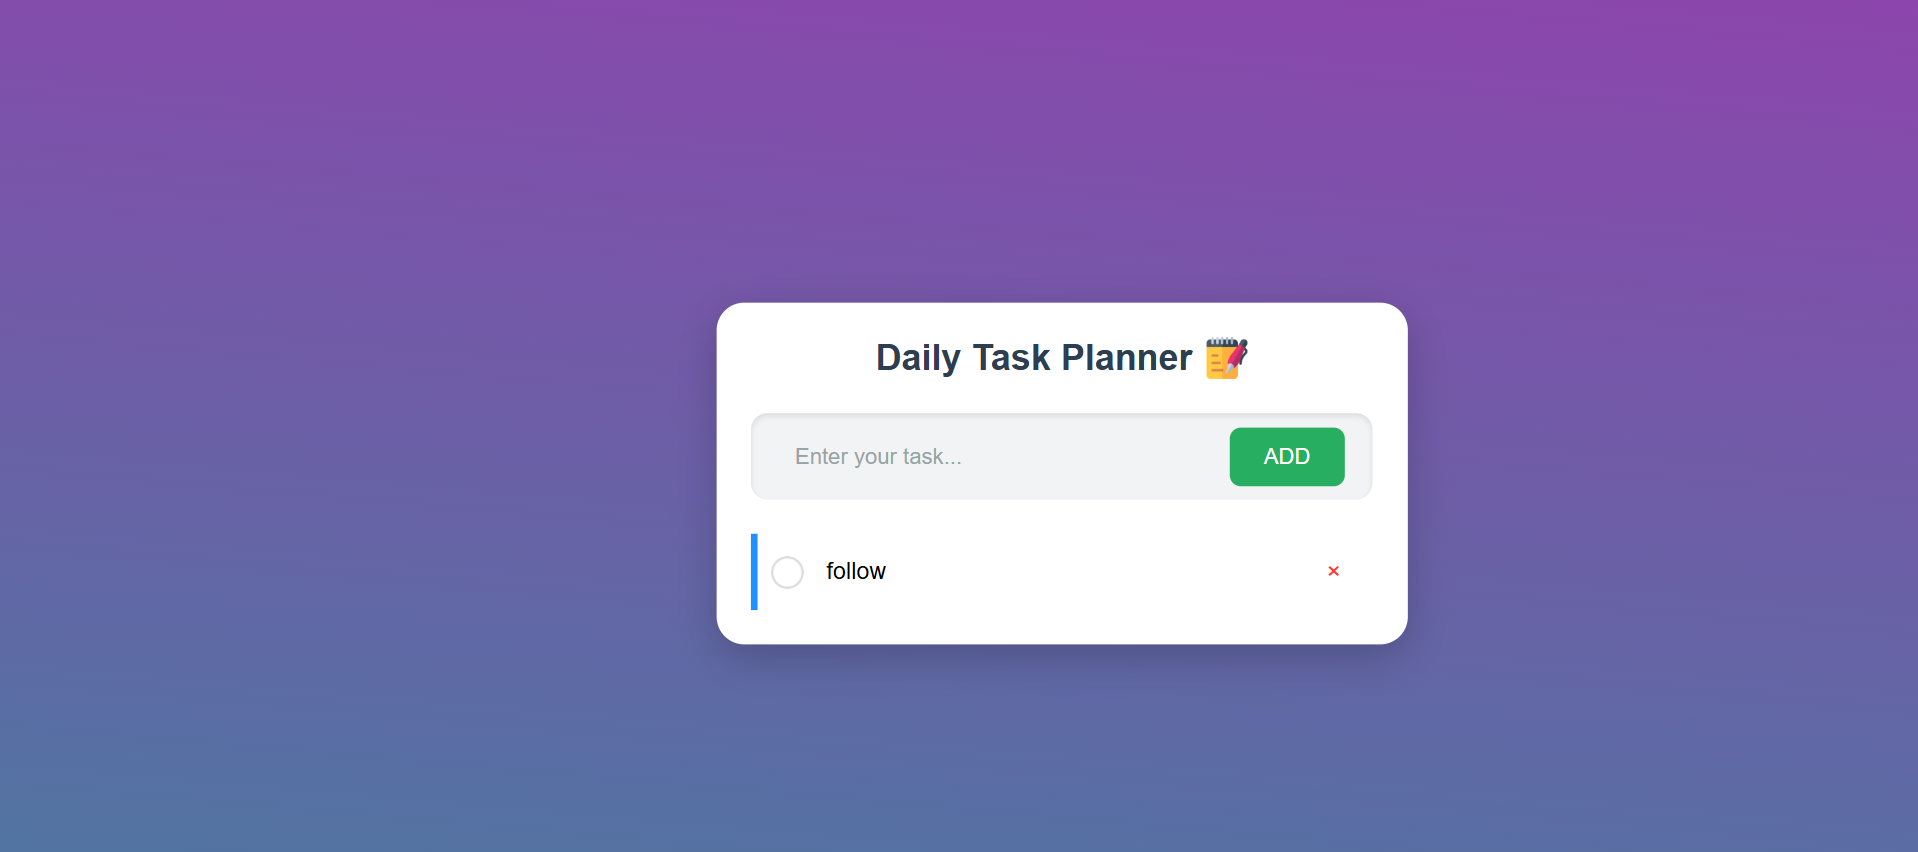
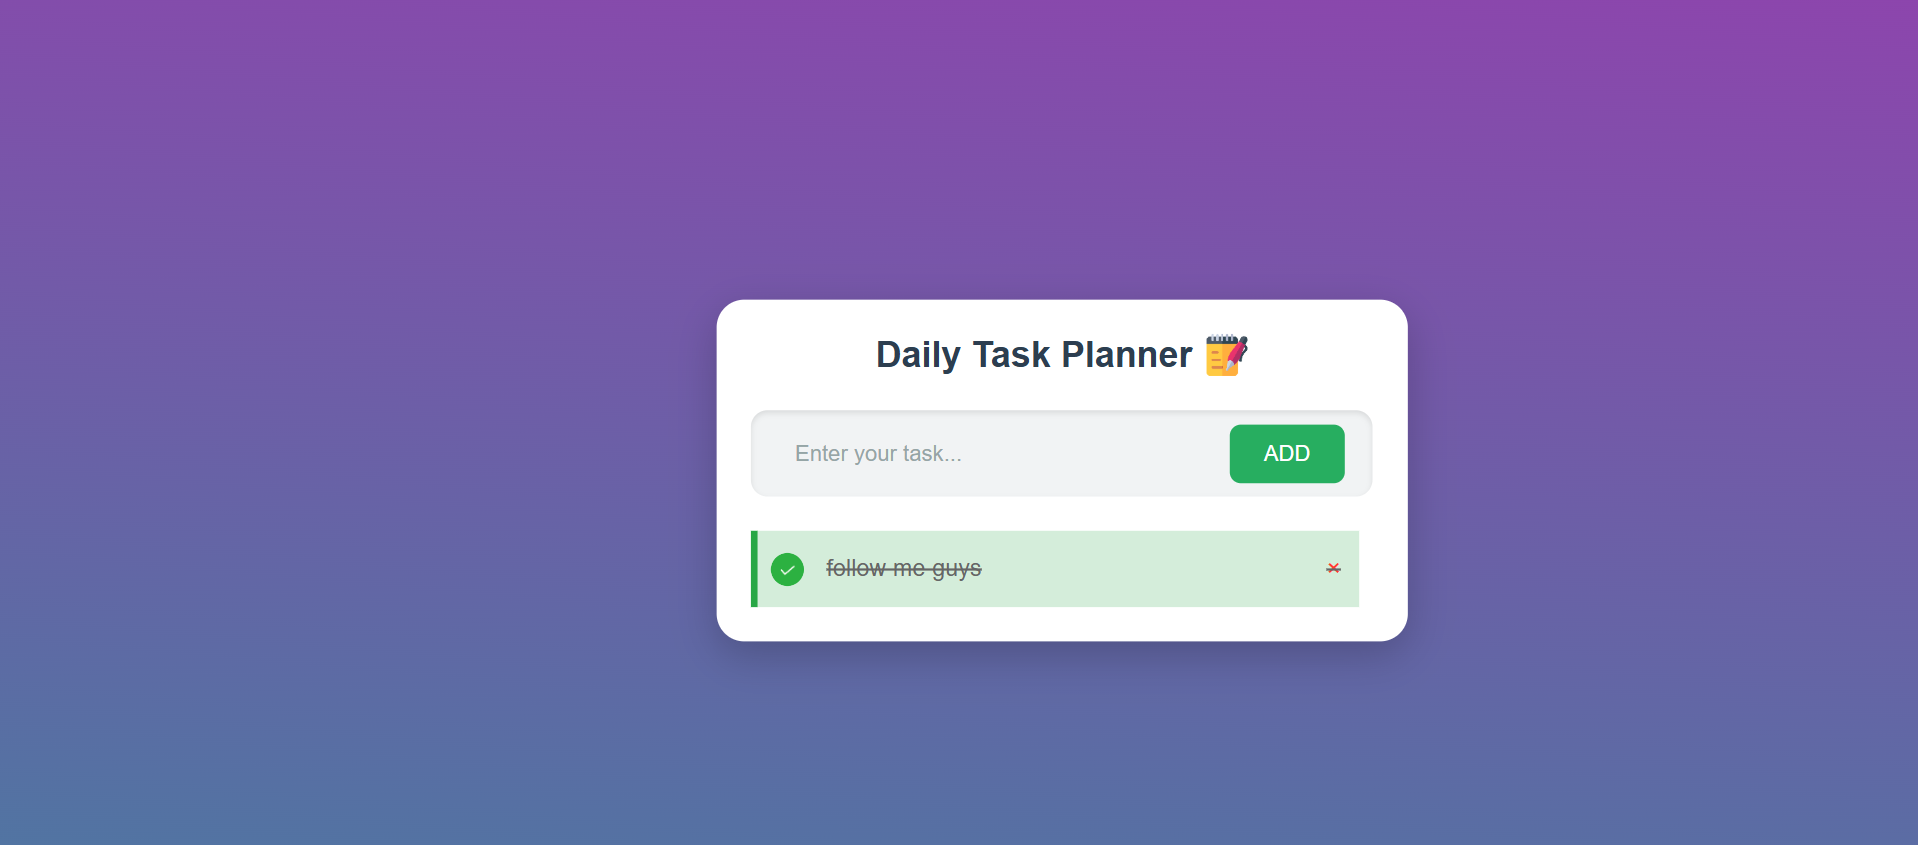
added

Changed region(s): [[0.3691, 0.6154, 0.7383, 0.7692], [0.4307, 0.5231, 0.4922, 0.5538], [0.646, 0.5231, 0.6767, 0.5538]]

diff --git a/readme.md b/readme.md
@@ -1,0 +1,65 @@
+# Daily Task Planner
+
+## Description
+
+The **Daily Task Planner** is a simple yet powerful task management application designed to help users stay organized and on top of their daily activities. The app allows users to add tasks, mark them as completed, and delete them, all within an easy-to-use interface. The design is responsive, making it perfect for both mobile and desktop use.
+
+## Features
+
+- **Add Tasks**: Quickly add new tasks to your planner.
+- **Mark Tasks as Completed**: Cross off tasks that are finished for easy tracking.
+- **Delete Tasks**: Easily remove tasks from your list.
+- **Responsive Design**: Optimized for both desktop and mobile devices.
+- **Clean User Interface**: Simple and intuitive design.
+- **Task Hover Effects**: Interactive hover effects for a smooth user experience.
+- **Lightweight**: Minimal use of resources for fast performance.
+
+## How to Use
+
+1. **Start the Application**: Open the app in your web browser.
+2. **Add Tasks**: Type in your task in the input box and click "Add" to add it to your task list.
+3. **Mark Tasks as Completed**: To mark a task as completed, click on the task. It will be visually marked with a line-through and change color to show completion.
+4. **Delete Tasks**: If you want to delete a task, simply click the trash can icon on the right side of the task.
+5. **Manage Your Day**: Continue adding, completing, and removing tasks as you go about your day to stay organized.
+
+
+## Preview
+
+Here’s a preview of the Daily Task Planner:
+
+![Daily Task Planner Preview](/images/screenshot.png)
+
+*This is a simple, yet effective task manager, designed to help users organize and track their daily tasks in a convenient way.*
+
+
+## How It Works
+
+1. **Add Tasks**: Type your task in the input box at the top of the page and click the "Add" button. The task will be added to the list below.
+2. **Mark Tasks as Completed**: Click on any task to mark it as completed. The task will be crossed out and its background will change color, indicating it's finished.
+3. **Delete Tasks**: If you no longer need a task, simply click the red delete icon next to it to remove it from your list.
+4. **Task Interaction**: Hovering over a task will change its background color slightly to provide interactive feedback.
+5. **Responsive Design**: The app is fully responsive, adapting seamlessly to various screen sizes, from mobile phones to desktop monitors.
+
+
+## Technologies Used
+
+- **HTML**: Structure and layout of the page.
+- **CSS**: Styling and responsive design.
+- **JavaScript**: Functionality for adding, completing, and deleting tasks.
+- **Flexbox**: For layout and alignment of elements.
+
+
+## Contributing
+
+We welcome contributions to improve the **Daily Task Planner**! To contribute:
+
+1. **Fork the repository**: Click on the "Fork" button in the top right corner.
+2. **Create a new branch**: Create a branch for your feature (`git checkout -b feature-name`).
+3. **Make changes**: Make the necessary changes or improvements.
+4. **Commit changes**: Add and commit your changes (`git commit -m 'Describe your changes'`).
+5. **Push to your branch**: Push your changes to your fork (`git push origin feature-name`).
+6. **Submit a Pull Request**: Open a pull request to merge your changes into the main repository.
+
+---
+
+**Priority Task:** Your next task? Follow me for more cool projects !  😄
